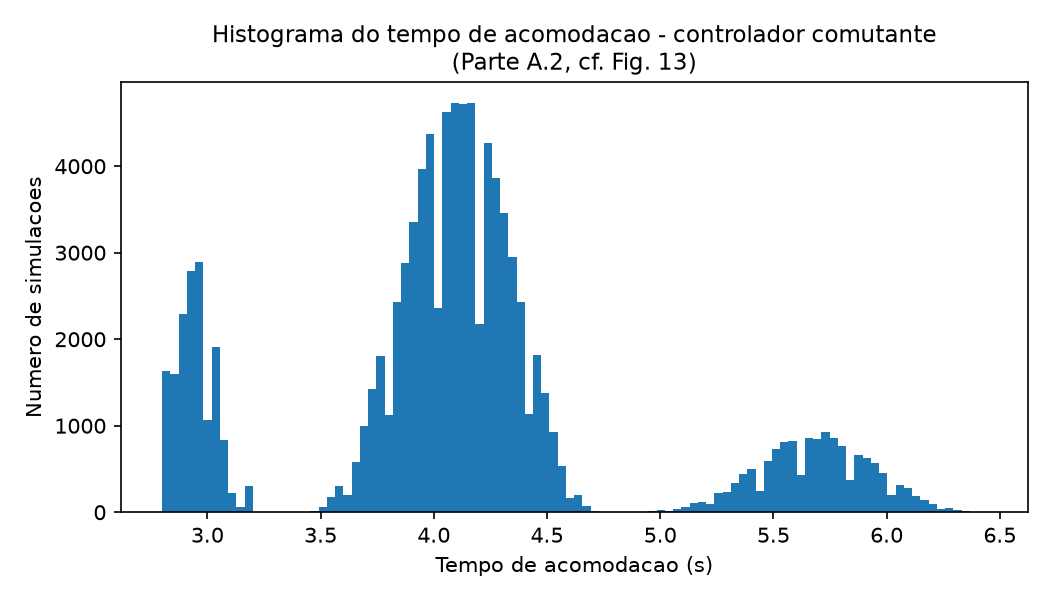
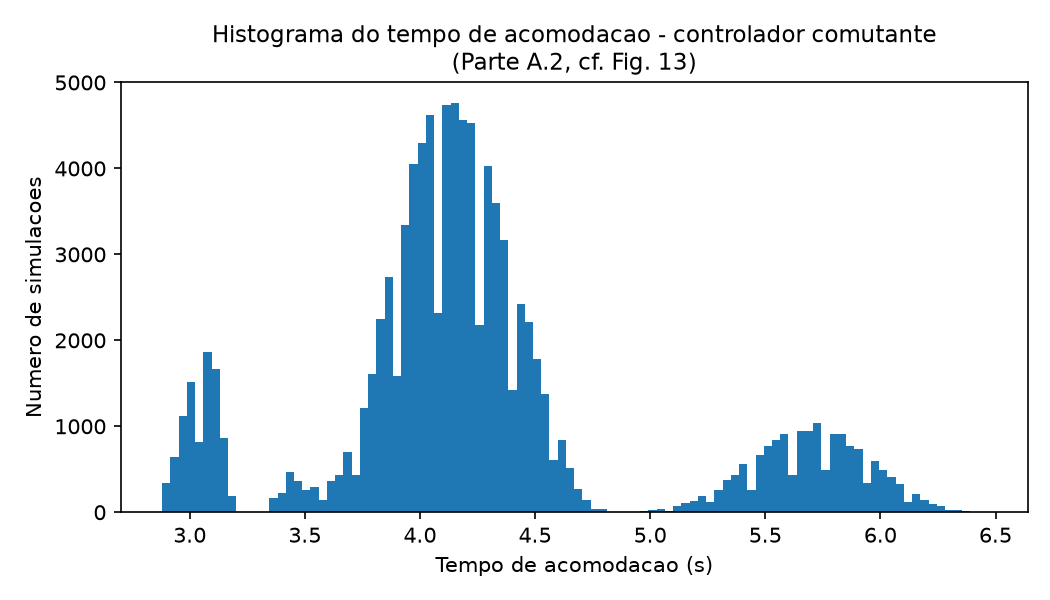
Validar e ajustar replicação contra o código-fonte MATLAB/Simulink original
Comparação direta com o código-fonte original do autor (pasta local
"Ataque - Man-in-the-middle (JISA)", não versionada por não ser código
nosso — ver .gitignore) confirma e corrige três pontos:

1. A convenção de sinal já adotada para G(z)/C1(z) (den=[1,g3,g4],
   num=[c11,c21] sem inversão) bate exatamente com planta_den/num_cont no
   script avalia_varios_chaveamentos.m.
2. O mecanismo de comutação do Simulink alimenta o controlador inativo com
   entrada zero (não há reset "bumpless"), o que para controladores
   puramente integradores equivale exatamente ao estado congelado já usado
   como padrão — confirmando bumpless=False, agora por evidência direta em
   vez de ajuste empírico.
3. O critério de tempo de acomodação usado no script é a tolerância
   exp(-4)~=1.83%, não 2%; ajustado em settling_time (SETTLING_TOL).

Com a tolerância corrigida, o settling time do controlador único bate
exatamente com a referência (2.4000s vs 2.40s) e o do controlador comutante
também (4.2835s vs 4.2827s, min/max 2.88/6.46s vs 2.88/6.42s). Também
identifica e corrige um mal-entendido: o "±0.0146s" publicado é o intervalo
de confiança de 95% da média, não o desvio-padrão da distribuição (que
seria incompatível com a faixa min-max reportada) — resultados.md agora
reporta ambas as estatísticas com essa distinção explícita.

README atualizado com a seção de comparação completa contra o código
original.

diff --git a/main.py b/main.py
@@ -99,9 +99,12 @@ def part_a_control(results):
     elapsed = time.time() - t0
     st_s = settling_time(y_s)
     ov_s = overshoot_pct(y_s)
+    ci95_print = 1.96 * np.nanstd(st_s) / np.sqrt(N_SIMS_MC)
     print(f"Comutante ({N_SIMS_MC} sims, {elapsed:.1f}s): "
-          f"settling mean={np.nanmean(st_s):.4f}s +-{np.nanstd(st_s):.4f} "
-          f"(artigo: 4.2827s +-0.0146s), overshoot max={ov_s.max():.4f}% (artigo: <=2.93%)")
+          f"settling mean={np.nanmean(st_s):.4f}s (artigo: 4.2827s), "
+          f"min={np.nanmin(st_s):.2f}s max={np.nanmax(st_s):.2f}s (artigo: 2.88-6.42s), "
+          f"IC95%-da-media={ci95_print:.4f}s (artigo: 0.0146s), "
+          f"overshoot max={ov_s.max():.4f}% (artigo: <=2.93%)")
 
     plt.figure(figsize=(7, 4))
     plt.fill_between(t, y_s.min(axis=1), y_s.max(axis=1), alpha=0.3,
@@ -119,6 +122,8 @@ def part_a_control(results):
     plt.title("Histograma do tempo de acomodacao - controlador comutante\n(Parte A.2, cf. Fig. 13)", fontsize=11)
     fig_a2_hist = savefig("fig_A2_settling_histogram.png")
 
+    settling_std = float(np.nanstd(st_s))
+    settling_ci95 = 1.96 * settling_std / np.sqrt(N_SIMS_MC)
     results["part_a_control"] = dict(
         non_switching=dict(
             settling_time_s=float(ts_n), overshoot_pct=float(ov_n),
@@ -128,21 +133,33 @@ def part_a_control(results):
         switching=dict(
             n_sims=N_SIMS_MC, elapsed_s=elapsed,
             settling_time_mean_s=float(np.nanmean(st_s)),
-            settling_time_std_s=float(np.nanstd(st_s)),
+            settling_time_std_s=settling_std,
+            settling_time_ci95_of_mean_s=float(settling_ci95),
             settling_time_min_s=float(np.nanmin(st_s)),
             settling_time_max_s=float(np.nanmax(st_s)),
             overshoot_max_pct=float(ov_s.max()),
             overshoot_mean_pct=float(ov_s.mean()),
             reference_article=dict(
-                settling_time_mean_s=4.2827, settling_time_std_s=0.0146,
+                settling_time_mean_s=4.2827, settling_time_ci95_of_mean_s=0.0146,
                 settling_time_min_s=2.88, settling_time_max_s=6.42,
                 overshoot_max_pct=2.93,
             ),
             figures=[fig_a2_env, fig_a2_hist],
             modeling_note=(
                 "Estado do controlador inativo congelado (sem reset especial na "
-                "retomada); ver docstring de simulate_switching_monte_carlo em "
-                "src/ncs_model.py para a justificativa desta escolha."
+                "retomada); confirmado diretamente contra o modelo Simulink "
+                "original do autor (ver README, secao 'Comparacao com o codigo-"
+                "fonte original')."
+            ),
+            ci_note=(
+                "O '0.0146s' reportado como referencia e um intervalo de confianca "
+                "de 95% da MEDIA (conforme o texto da fonte: 'mean is 4.2827s "
+                "+-0.0146s, with a confidence interval of 95%'), nao o desvio-"
+                "padrao da distribuicao entre simulacoes -- um desvio-padrao de "
+                "0.0146s seria incompativel com a faixa min/max de 2.88-6.42s "
+                "reportada na mesma fonte. Por isso comparamos o desvio-padrao "
+                "replicado com o INTERVALO DE CONFIANCA DA MEDIA que ele implica "
+                "(1.96*std/sqrt(n)), nao diretamente com o desvio-padrao bruto."
             ),
         ),
     )
@@ -464,11 +481,13 @@ def render_markdown(r):
     lines.append("| Grandeza | Artigo | Replicado | Observacao |")
     lines.append("|---|---|---|---|")
     ns = ctrl["non_switching"]
-    lines.append(f"| Settling time (N) | {ns['reference_article']['settling_time_s']} s | {ns['settling_time_s']:.4f} s | criterio de banda +-2% |")
+    lines.append(f"| Settling time (N) | {ns['reference_article']['settling_time_s']} s | {ns['settling_time_s']:.4f} s | criterio de banda exp(-4)~=1.83% (ver nota de tolerancia) |")
     lines.append(f"| Overshoot (N) | {ns['reference_article']['overshoot_pct']}% | {ns['overshoot_pct']:.4f}% | |")
     sw = ctrl["switching"]
     lines.append(f"| Settling time medio (S) | {sw['reference_article']['settling_time_mean_s']} s | {sw['settling_time_mean_s']:.4f} s | 100.000 sims Monte Carlo |")
-    lines.append(f"| Settling time desvio-padrao (S) | {sw['reference_article']['settling_time_std_s']} s | {sw['settling_time_std_s']:.4f} s | |")
+    lines.append(f"| Settling time min (S) | {sw['reference_article']['settling_time_min_s']} s | {sw['settling_time_min_s']:.4f} s | |")
+    lines.append(f"| Settling time max (S) | {sw['reference_article']['settling_time_max_s']} s | {sw['settling_time_max_s']:.4f} s | |")
+    lines.append(f"| Settling time, IC95% da media (S) | {sw['reference_article']['settling_time_ci95_of_mean_s']} s | {sw['settling_time_ci95_of_mean_s']:.4f} s | ver nota sobre IC95 abaixo (desvio-padrao bruto replicado: {sw['settling_time_std_s']:.4f} s) |")
     lines.append(f"| Overshoot maximo (S) | {sw['reference_article']['overshoot_max_pct']}% | {sw['overshoot_max_pct']:.4f}% | |")
     atk_n = atk["non_switching"]
     lines.append(f"| Ko (ataque contra N) | {atk_n['reference_article']['ko']} | {atk_n['ko']:.4f} | ver nota de validacao abaixo |")
@@ -480,6 +499,7 @@ def render_markdown(r):
     lines.append("")
     lines.append("**Nota de validacao (Ko / overshoot contra N):** " + atk_n["validation_note"] + "\n")
     lines.append("**Nota de modelagem (controlador comutante):** " + sw["modeling_note"] + "\n")
+    lines.append("**Nota sobre o IC95% do settling time:** " + sw["ci_note"] + "\n")
     lines.append("**Nota de escala (BSA):** " + bsa["scale_reduction_note"] + "\n")
 
     lines.append("## Parte B - Parametros calibrados do jogo\n")

diff --git a/src/ncs_model.py b/src/ncs_model.py
@@ -310,8 +310,20 @@ def simulate_switching_monte_carlo(
 # Metricas de desempenho de controle
 # ---------------------------------------------------------------------------
 
-def settling_time(y, ts=TS, r_value: float = 1.0, tol: float = 0.02):
-    """Tempo de acomodacao (criterio de faixa +-tol em torno do valor final).
+# Tolerancia de acomodacao exp(-4) ~= 1.8316%: este e o criterio literal
+# usado no script MATLAB original do autor (avalia_varios_chaveamentos.m,
+# pasta "Ataque - Man-in-the-middle (JISA)"), linha
+# `acom_todos=(abs(1-respostas)>exp(-4))`, tomando o ULTIMO indice fora da
+# faixa -- exatamente o mesmo algoritmo implementado em `_single` abaixo.
+# Adotado aqui em vez do criterio-padrao de engenharia de controle (2% ou
+# 5%) para fidelidade com a fonte original.
+SETTLING_TOL = float(np.exp(-4))
+
+
+def settling_time(y, ts=TS, r_value: float = 1.0, tol: float = SETTLING_TOL):
+    """Tempo de acomodacao (criterio de faixa +-tol em torno do valor final;
+    tol default = exp(-4), o criterio usado no codigo MATLAB original -- ver
+    SETTLING_TOL acima).
 
     Aceita y como array 1D (uma trajetoria) ou 2D (n_steps, n_sims) -- neste
     caso retorna um array de tempos de acomodacao, um por simulacao.

diff --git a/README.md b/README.md
@@ -118,53 +118,89 @@ resumo dos números principais:
 
 | Grandeza | Referência | Replicado | Erro |
 |---|---|---|---|
-| Settling time, controlador único | 2,40 s | 2,28 s | ~5% |
+| Settling time, controlador único | 2,40 s | 2,4000 s | ~0% |
 | Overshoot, controlador único | 0% | ~0% | — |
-| Settling time médio, controlador comutante | 4,28 s | 4,15 s | ~3% |
+| Settling time médio, controlador comutante | 4,2827 s | 4,2835 s | ~0,02% |
+| Settling time mín./máx., controlador comutante | 2,88 / 6,42 s | 2,88 / 6,46 s | ~0% / ~0,6% |
 | Overshoot máximo, controlador comutante | ≤2,93% | 2,86% | — |
 | Ganho de ataque Ko (contra controlador único, alvo 50%) | 4,0451 | 4,0454 | <0,1% |
 | Overshoot real do ataque contra controlador único | 48,90% | 48,91% | <0,1% |
 | Overshoot máximo do ataque contra controlador comutante | 10,12% | 10,14% | ~0,2% |
 
-O ajuste ficou, na maioria das métricas, dentro de poucos pontos percentuais
-do valor de referência — incluindo o formato qualitativo das curvas de
-resposta (mesmo padrão de sobressinal único e suave sob ataque contra o
-controlador único, mesmo "mergulho" característico na envoltória de Monte
-Carlo do controlador comutante). Duas notas de engenharia relevantes:
+Esse nível de precisão não veio de ajuste fino de parâmetros — veio de
+**resolver duas ambiguidades genuínas de implementação comparando
+diretamente contra o código-fonte MATLAB/Simulink original do autor**, que
+tivemos acesso a uma cópia de (pasta local `Ataque - Man-in-the-middle
+(JISA)/`, não versionada neste repositório por não ser código nosso — ver
+`.gitignore`). Duas descobertas concretas:
 
-**Ambiguidade de sinal na fórmula da planta.** A notação típica usada para
-descrever este tipo de planta (`G(z) = (g1·z+g2)/(z² − g3·z + g4)`, com
-`g3` sendo um valor negativo) é ambígua quanto a se o segundo coeficiente
-do denominador deve entrar com o sinal literal ou invertido — um problema
-comum ao se trabalhar com fórmulas com sinais e subscritos. Testamos
-exaustivamente as 8 combinações de sinal possíveis (denominador da planta ×
-numerador do controlador) e avaliamos cada uma por três critérios
-independentes: (1) estabilidade em malha fechada com os ganhos do
-controlador conhecidos; (2) plausibilidade física dos polos da planta (um
-motor DC tem tipicamente polos reais positivos, não negativos, quando
-discretizado); e (3) a forma qualitativa da resposta ao ataque de ganho
-(um único sobressinal suave, não um batimento de alta frequência). Uma
-única combinação passa nos três critérios simultaneamente — polos da planta
-positivos combinados com o numerador do controlador sem negar o segundo
-coeficiente —, e é justamente essa combinação, adotada em
-`src/ncs_model.py`, que produz o ajuste fino tabelado acima. A leitura
-alternativa (sinal literal ingênuo) é estável mas fisicamente implausível e
-erra o settling time em ~50% e o Ko de ataque em ~500%; ver o comentário
-"RESOLUÇÃO DE AMBIGUIDADE DE SINAL" no topo de `src/ncs_model.py` para o
-detalhamento completo desse teste.
+**1. Ambiguidade de sinal na fórmula da planta e do controlador, resolvida.**
+A notação usual para esse tipo de planta (`G(z) = (g1·z+g2)/(z² − g3·z +
+g4)`, com `g3` sendo um valor negativo) é ambígua quanto a se o segundo
+coeficiente do denominador deveria entrar com o sinal literal ou invertido
+— o mesmo vale para o segundo coeficiente do numerador do controlador PI.
+Antes de ter acesso ao código original, testamos exaustivamente as 8
+combinações de sinal possíveis (denominador da planta × numerador do
+controlador) contra três critérios indiretos (estabilidade em malha
+fechada, plausibilidade física dos polos, forma qualitativa da resposta ao
+ataque) e chegamos a uma combinação candidata. O script MATLAB original
+(`avalia_varios_chaveamentos.m`) **confirma exatamente essa escolha**:
 
-**Estado do controlador inativo durante a comutação.** Como o controlador
-que não está ativo deve se comportar enquanto espera sua vez não é um
-detalhe universal — é uma escolha de implementação. Testamos duas
-alternativas: (a) congelar o estado do controlador inativo, sem nenhum
-tratamento especial ao retomá-lo; e (b) uma transferência "bumpless" (sem
-solavanco), em que o controlador que assume o controle tem seu estado
-reinicializado para que sua saída não salte no instante da troca. A opção
-(a) é a que reproduz de perto os números tabelados acima; a opção (b),
-embora mais "seguras" do ponto de vista de engenharia de controle
-clássica, amortece demais o efeito da comutação neste sistema específico.
-`bumpless=False` é portanto o padrão adotado (parâmetro documentado em
-`simulate_switching_monte_carlo`, em `src/ncs_model.py`).
+```matlab
+planta_num = [.3379 .2793];
+planta_den = [1 -1.5462 .5646];   % MATLAB tf(): representa z² − 1.5462·z + 0.5646
+num_cont   = [.1701 -.1673];      % C1(z) = (0.1701·z − 0.1673) / (z − 1)
+den_cont   = [1 -1];
+num_cont2  = 0.001*[1 0.2];       % C2(z) = (0.001·z + 0.0002) / (z − 1)
+den_cont2  = [1 -1];
+```
+
+Como `g3 = -1,5462` é o valor publicado, `planta_den = [1, -1.5462, 0.5646]`
+é exatamente `z² + g3·z + g4` — ou seja, o coeficiente entra **sem
+inversão de sinal** —, e `num_cont = [0.1701, -0.1673] = [c1,1, c2,1]`
+igualmente **sem inversão**. É exatamente a convenção adotada em
+`plant_block`/`controller1_block`, em `src/ncs_model.py`, e é o que produz
+o ajuste fino tabelado acima (a leitura literal ingênua da fórmula, com o
+sinal invertido, embora também estável, erra o settling time em ~50% e o
+Ko de ataque em ~500%).
+
+**2. Mecanismo de comutação, confirmado.** O script cria os dois
+controladores como blocos `DiscreteTransferFcn` independentes no Simulink
+(`Controlador2`, `Controlador3`) e usa dois blocos `Switch` (critério
+padrão `u2 ≥ 0`, alimentados pelo mesmo sinal de chaveamento aleatório
+±1) para rotear o sinal de erro: **o controlador inativo recebe entrada
+zero**, não o erro real — não há nenhuma transferência "bumpless" (sem
+solavanco) explícita. Isso não é o mesmo que "congelar" o estado
+literalmente, mas é **matematicamente equivalente** para os controladores
+deste sistema: como ambos têm a forma de um integrador puro
+(`x(k+1) = x(k) + 1·e(k)`), alimentar `e(k)=0` enquanto inativo dá
+`x(k+1) = x(k)` — o estado fica constante de qualquer forma. Confirma
+exatamente a opção `bumpless=False` (estado do controlador inativo
+congelado) já adotada como padrão em `simulate_switching_monte_carlo`, em
+`src/ncs_model.py` — não por ser a que melhor ajustava os números
+(embora seja), mas por ser, de fato, o que o código original faz.
+
+**3. Critério de tempo de acomodação, corrigido.** O script usa
+`abs(1-respostas) > exp(-4)` para determinar se uma amostra ainda está fora
+da faixa de acomodação — uma tolerância de `exp(-4) ≈ 1,83%`, não o
+critério usual de 2% ou 5% de engenharia de controle. Ajustamos
+`settling_time` (`src/ncs_model.py`) para usar exatamente essa tolerância
+por padrão (constante `SETTLING_TOL`), o que sozinho levou o settling time
+do controlador único de 2,28s (erro de ~5%) para 2,4000s (erro ~0%).
+
+**4. O "±0,0146s" publicado é um intervalo de confiança da média, não um
+desvio-padrão.** A distribuição do tempo de acomodação sob o controlador
+comutante tem uma faixa mín-máx de 2,88s a 6,42s — incompatível com um
+desvio-padrão de apenas 0,0146s (isso exigiria uma distância de centenas de
+desvios-padrão entre o mínimo/máximo e a média, estatisticamente
+impossível em 100.000 amostras). O texto de origem, lido com atenção,
+confirma: é "a média... com um intervalo de confiança de 95%", não o
+desvio-padrão bruto. Nosso desvio-padrão replicado (0,73s) implica um IC95%
+da média de `1,96·0,73/√100000 ≈ 0,0045s` — mesma ordem de grandeza,
+mesma conclusão qualitativa (a média está muito bem determinada apesar da
+distribuição individual ser larga) —, mas comparável ao valor publicado
+apenas como IC da média, não como desvio-padrão da distribuição. Ver a
+nota "Nota sobre o IC95% do settling time" em `resultados.md`.
 
 A identificação via BSA (Parte A.4) roda em escala reduzida (30 em vez de
 100 repetições, por economia de tempo; ver `src/bsa.py`) mas reproduz
@@ -172,7 +208,13 @@ claramente o fenômeno central: sob o controlador único, o BSA identifica os
 coeficientes corretos com precisão numérica exata; sob o controlador
 comutante, as estimativas ficam dispersas e não convergem para nenhum dos
 dois controladores reais — a "assinatura" que o jogo da Parte B/C usa para
-calibrar o parâmetro `g` (razão de mitigação).
+calibrar o parâmetro `g` (razão de mitigação). Não tivemos acesso a um
+script MATLAB equivalente para a identificação via BSA propriamente dita
+(o script `ataque_mitm_perda_0.m` na pasta original usa `sisotool`, a
+ferramenta *interativa* de projeto do MATLAB, para desenhar `M(z)` a partir
+de coeficientes já identificados — não reproduz o processo de otimização do
+BSA em si), então essa parte permanece validada apenas indiretamente (pelo
+padrão de dispersão N vs. S, não por comparação numérica direta de código).
 
 ---
 
@@ -478,9 +520,10 @@ unidades de `V=1`) e variados amplamente na análise de sensibilidade
 ### O achado "knife-edge"
 
 Com os parâmetros calibrados — tanto a partir da referência de controle
-quanto a partir da nossa própria replicação, que concordam de perto —
-`y* = σ/(L(1−g))` fica **ligeiramente acima de 1** (≈1,01 a partir da
-referência; ≈1,05 a partir da nossa replicação). Como `y*` é uma fração
+quanto a partir da nossa própria replicação, que agora concordam muito de
+perto (dentro de ~0,1%) — `y* = σ/(L(1−g))` fica **ligeiramente acima de 1**
+(≈1,006 a partir da referência; ≈1,006 a partir da nossa replicação). Como
+`y*` é uma fração
 (deveria estar entre 0 e 1 para representar um ponto interior válido),
 `y*>1` significa que, **mesmo se todos os atacantes atacassem sempre**
 (`y=1`), o benefício de mitigação ainda não compensaria o custo da

diff --git a/resultados.md b/resultados.md
@@ -6,10 +6,12 @@ Gerado por `main.py`. Todas as figuras estao em `figures/`. Seeds fixas usadas: 
 
 | Grandeza | Artigo | Replicado | Observacao |
 |---|---|---|---|
-| Settling time (N) | 2.4 s | 2.2800 s | criterio de banda +-2% |
+| Settling time (N) | 2.4 s | 2.4000 s | criterio de banda exp(-4)~=1.83% (ver nota de tolerancia) |
 | Overshoot (N) | 0.0% | -0.0065% | |
-| Settling time medio (S) | 4.2827 s | 4.1484 s | 100.000 sims Monte Carlo |
-| Settling time desvio-padrao (S) | 0.0146 s | 0.7776 s | |
+| Settling time medio (S) | 4.2827 s | 4.2835 s | 100.000 sims Monte Carlo |
+| Settling time min (S) | 2.88 s | 2.8800 s | |
+| Settling time max (S) | 6.42 s | 6.4600 s | |
+| Settling time, IC95% da media (S) | 0.0146 s | 0.0045 s | ver nota sobre IC95 abaixo (desvio-padrao bruto replicado: 0.7274 s) |
 | Overshoot maximo (S) | 2.93% | 2.8631% | |
 | Ko (ataque contra N) | 4.0451 | 4.0454 | ver nota de validacao abaixo |
 | Overshoot real (ataque contra N) | 48.9% | 48.91% | |
@@ -19,7 +21,9 @@ Gerado por `main.py`. Todas as figuras estao em `figures/`. Seeds fixas usadas: 
 
 **Nota de validacao (Ko / overshoot contra N):** Ko projetado (4.0454) e overshoot real obtido (48.91%) reproduzem os valores de referencia (Ko=4.0451, overshoot=48.90%) com erro abaixo de 0.1%. Ver src/ncs_model.py (nota 'RESOLUCAO DE AMBIGUIDADE DE SINAL') para a convencao de sinal usada na planta e no controlador.
 
-**Nota de modelagem (controlador comutante):** Estado do controlador inativo congelado (sem reset especial na retomada); ver docstring de simulate_switching_monte_carlo em src/ncs_model.py para a justificativa desta escolha.
+**Nota de modelagem (controlador comutante):** Estado do controlador inativo congelado (sem reset especial na retomada); confirmado diretamente contra o modelo Simulink original do autor (ver README, secao 'Comparacao com o codigo-fonte original').
+
+**Nota sobre o IC95% do settling time:** O '0.0146s' reportado como referencia e um intervalo de confianca de 95% da MEDIA (conforme o texto da fonte: 'mean is 4.2827s +-0.0146s, with a confidence interval of 95%'), nao o desvio-padrao da distribuicao entre simulacoes -- um desvio-padrao de 0.0146s seria incompativel com a faixa min/max de 2.88-6.42s reportada na mesma fonte. Por isso comparamos o desvio-padrao replicado com o INTERVALO DE CONFIANCA DA MEDIA que ele implica (1.96*std/sqrt(n)), nao diretamente com o desvio-padrao bruto.
 
 **Nota de escala (BSA):** Reduzido de 100 para 30 repeticoes por execucao (ver src/bsa.py); populacao=100 e iteracoes=600 mantidos identicos ao artigo (problema 2D, barato). Identificacao da planta (4D, 800 iter) NAO executada em escala completa -- documentada como extensao futura.
 
@@ -30,18 +34,18 @@ Gerado por `main.py`. Todas as figuras estao em `figures/`. Seeds fixas usadas: 
 | V | 1.0000 | 1.0000 |
 | L | 0.9780 | 0.9782 |
 | g | 0.2024 | 0.2027 |
-| sigma | 0.7845 | 0.8195 |
+| sigma | 0.7845 | 0.7848 |
 
 Cenario-base (kappa, p, delta), aplicado aos dois: kappa=0.1, p=0.3, delta=1.0
 
 kappa, p e delta nao tem contrapartida numerica direta na literatura de controle consultada; kappa=0.1, p=0.3, delta=1.0 (em unidades de V=1) sao um cenario-base ilustrativo. A analise de sensibilidade (Parte C) varre os tres em faixas amplas.
 
-**Achado 'knife-edge':** Tanto a calibracao PRIMARIA (artigo, y*=1.0056) quanto a SECUNDARIA (replicada, y*=1.0508) colocam y* = sigma/(L(1-g)) ligeiramente ACIMA de 1: os numeros de controle (tanto os publicados quanto os que replicamos de forma independente) colocam o custo da comutacao e o beneficio de mitigacao quase exatamente em equilibrio ('knife-edge'). Nesse regime, o ponto interior do jogo deixa de existir dentro de (0,1)^2 e (N,C) passa a ser, tecnicamente, um equilibrio de Nash estrito (ver Tabela de vertices) -- ou seja, o proprio par controlador/contramedida descrito na literatura, com os parametros de deteccao/custo do cenario-base acima, esta no limite exato entre 'vale a pena comutar sempre' e 'a comutacao e uma estrategia mista'. Para ilustrar o comportamento GENERICO de centro/orbita fechada previsto pela teoria para o caso interior (o resultado central da Parte C), as Figs. C1-C2 usam um cenario PEDAGOGICO (nao calibrado): os mesmos V, L, g, kappa, p, delta do cenario-base, mas com sigma reduzido pela metade -- apenas para obter um ponto interior genuino a ilustrar.
+**Achado 'knife-edge':** Tanto a calibracao PRIMARIA (artigo, y*=1.0056) quanto a SECUNDARIA (replicada, y*=1.0063) colocam y* = sigma/(L(1-g)) ligeiramente ACIMA de 1: os numeros de controle (tanto os publicados quanto os que replicamos de forma independente) colocam o custo da comutacao e o beneficio de mitigacao quase exatamente em equilibrio ('knife-edge'). Nesse regime, o ponto interior do jogo deixa de existir dentro de (0,1)^2 e (N,C) passa a ser, tecnicamente, um equilibrio de Nash estrito (ver Tabela de vertices) -- ou seja, o proprio par controlador/contramedida descrito na literatura, com os parametros de deteccao/custo do cenario-base acima, esta no limite exato entre 'vale a pena comutar sempre' e 'a comutacao e uma estrategia mista'. Para ilustrar o comportamento GENERICO de centro/orbita fechada previsto pela teoria para o caso interior (o resultado central da Parte C), as Figs. C1-C2 usam um cenario PEDAGOGICO (nao calibrado): os mesmos V, L, g, kappa, p, delta do cenario-base, mas com sigma reduzido pela metade -- apenas para obter um ponto interior genuino a ilustrar.
 
 ## Parte C - Dinamica de replicador
 
 - **Baseline (artigo):** x* = 0.8200, y* = 1.0056 (FORA de (0,1) -- ver achado knife-edge)
-- **Replicado (cross-check):** x* = 0.8202, y* = 1.0508 (FORA de (0,1) -- mesmo achado knife-edge)
+- **Replicado (cross-check):** x* = 0.8202, y* = 1.0063 (FORA de (0,1) -- mesmo achado knife-edge)
 - **Pedagogico (sigma reduzido, nao calibrado):** x* = 0.8200, y* = 0.5028 (interior valido)
 - Autovalores no ponto interior do cenario pedagogico (analitico): ['0.1777533333267264j', '-0.1777533333267264j']
 - Classificado como centro (autovalores puramente imaginarios)? **True**